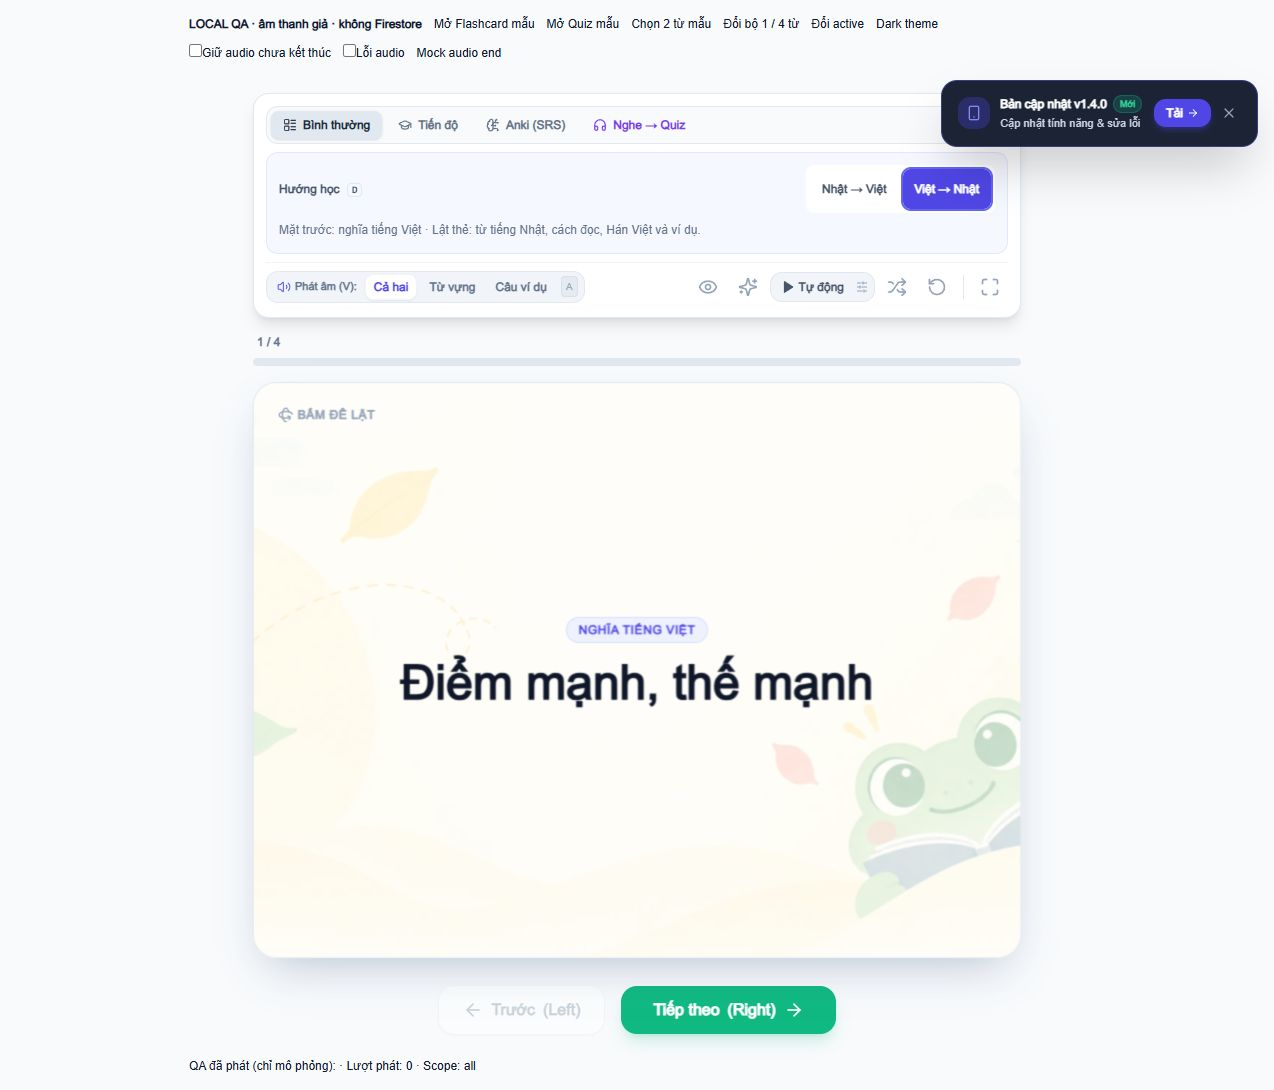
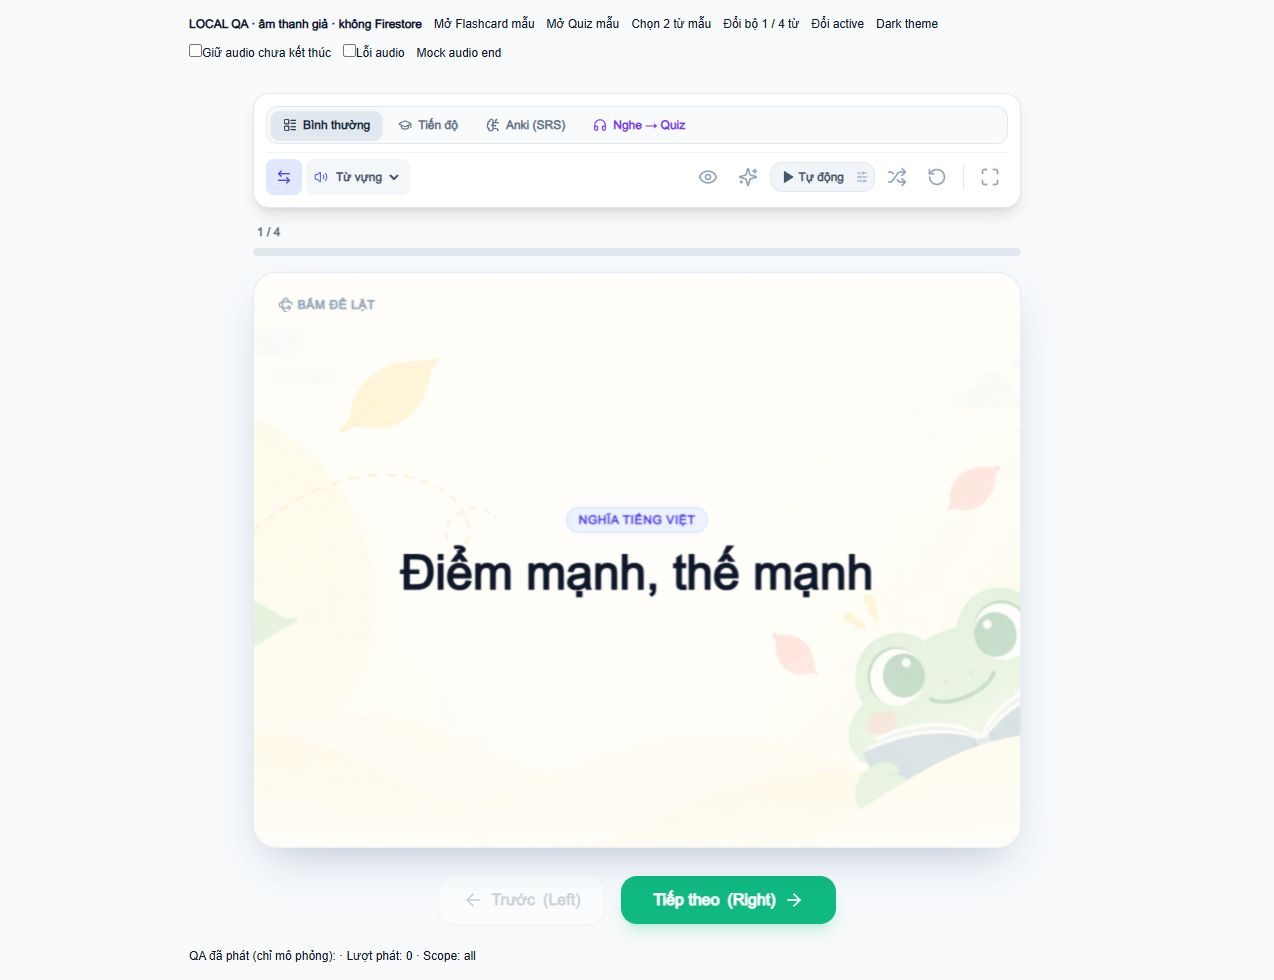
Compact flashcard direction and audio controls into toolbar

diff --git a/src/components/FlashcardView.tsx b/src/components/FlashcardView.tsx
@@ -1247,69 +1247,26 @@ export function FlashcardView({
           ><Headphones className="h-3.5 w-3.5" />Nghe → Quiz</button>}
         </div>
 
-        <div className="space-y-2 rounded-xl border border-indigo-100 bg-indigo-50/50 p-3 dark:border-indigo-900/60 dark:bg-indigo-950/30">
-          <div className="flex flex-wrap items-center justify-between gap-2">
-            <span className="text-xs font-bold text-slate-600 dark:text-slate-300">Hướng học <kbd className="ml-1 rounded border border-slate-200 px-1 text-[10px] dark:border-slate-600">D</kbd></span>
-            <div role="group" aria-label="Hướng học Flashcard" className="flex flex-wrap gap-1 rounded-lg bg-white p-1 dark:bg-slate-900">
-              {([['ja_vi', 'Nhật → Việt'], ['vi_ja', 'Việt → Nhật']] as const).map(([value, label]) => (
-                <button key={value} type="button" aria-pressed={cardDirection === value}
-                  onClick={() => changeCardDirection(value)}
-                  className={`min-h-10 rounded-lg px-3 py-2 text-xs font-bold transition-colors focus-visible:outline focus-visible:outline-2 focus-visible:outline-indigo-500 ${cardDirection === value ? 'bg-indigo-600 text-white shadow-sm' : 'text-slate-600 hover:bg-slate-100 dark:text-slate-300 dark:hover:bg-slate-800'}`}>
-                  {label}
-                </button>
-              ))}
-            </div>
-          </div>
-          <p className="text-xs leading-relaxed text-slate-500 dark:text-slate-400" aria-live="polite">
-            {cardDirection === 'ja_vi' ? 'Mặt trước: từ tiếng Nhật · Lật thẻ: cách đọc, nghĩa và ví dụ.' : 'Mặt trước: nghĩa tiếng Việt · Lật thẻ: từ tiếng Nhật, cách đọc, Hán Việt và ví dụ.'}
-          </p>
-        </div>
-
-        {/* Action & Audio mode buttons */}
-        <div className="flex flex-wrap items-center justify-between gap-2 pt-1.5 border-t border-slate-100 dark:border-slate-800/80">
-          {/* Bộ chuyển đổi chế độ phát âm (Audio Mode Switch) */}
-          <div className="flex items-center gap-1 bg-slate-100 dark:bg-slate-800/80 p-0.5 rounded-xl border border-slate-200 dark:border-slate-700/60">
-            <span className="pl-2 pr-1 text-[11px] text-slate-500 dark:text-slate-400 flex items-center gap-1 font-semibold select-none">
-              <Volume2 className="w-3.5 h-3.5 text-indigo-500 shrink-0" />
-              <span className="hidden sm:inline">Phát âm (V):</span>
-            </span>
-            <button
-              onClick={() => handleAudioModeChange("both")}
-              className={`px-2 py-1 rounded-lg text-xs font-bold transition-all ${
-                audioMode === "both"
-                  ? "bg-white dark:bg-slate-700 text-indigo-600 dark:text-indigo-400 shadow-sm border border-slate-200/50 dark:border-slate-600/50"
-                  : "text-slate-500 dark:text-slate-400 hover:text-slate-900 dark:hover:text-slate-200"
-              }`}
-              title="Đọc cả Từ vựng và Câu ví dụ khi bấm V — Phím [A] để chuyển chế độ"
-            >
-              <span className="hidden xs:inline sm:inline">Cả hai</span>
-              <span className="xs:hidden sm:hidden">Cả 2</span>
+        {/* Compact toolbar: direction switch, audio target, study actions. */}
+        <div className="flex flex-wrap items-center justify-between gap-1.5 border-t border-slate-100 pt-1.5 dark:border-slate-800/80">
+          <div className="flex items-center gap-1">
+            <button type="button" onClick={toggleCardDirection}
+              aria-label={`Đổi hướng học: ${cardDirection === 'ja_vi' ? 'Nhật → Việt' : 'Việt → Nhật'} (D)`}
+              aria-pressed={cardDirection === 'vi_ja'}
+              title={`${cardDirection === 'ja_vi' ? 'Nhật → Việt' : 'Việt → Nhật'} · Bấm để đảo hướng (D)`}
+              className={`flex h-9 w-9 shrink-0 items-center justify-center rounded-lg transition-colors focus-visible:outline focus-visible:outline-2 focus-visible:outline-indigo-500 ${cardDirection === 'vi_ja' ? 'bg-indigo-100 text-indigo-600 dark:bg-indigo-500/20 dark:text-indigo-300' : 'text-slate-500 hover:bg-slate-100 dark:text-slate-400 dark:hover:bg-slate-800'}`}>
+              <ArrowLeftRight className="h-4 w-4" />
             </button>
-            <button
-              onClick={() => handleAudioModeChange("word")}
-              className={`px-2 py-1 rounded-lg text-xs font-bold transition-all ${
-                audioMode === "word"
-                  ? "bg-white dark:bg-slate-700 text-indigo-600 dark:text-indigo-400 shadow-sm border border-slate-200/50 dark:border-slate-600/50"
-                  : "text-slate-500 dark:text-slate-400 hover:text-slate-900 dark:hover:text-slate-200"
-              }`}
-              title="Chỉ đọc Từ vựng khi bấm V — Phím [A] để chuyển chế độ"
-            >
-              <span className="hidden xs:inline sm:inline">Từ vựng</span>
-              <span className="xs:hidden sm:hidden">Từ</span>
-            </button>
-            <button
-              onClick={() => handleAudioModeChange("example")}
-              className={`px-2 py-1 rounded-lg text-xs font-bold transition-all ${
-                audioMode === "example"
-                  ? "bg-white dark:bg-slate-700 text-indigo-600 dark:text-indigo-400 shadow-sm border border-slate-200/50 dark:border-slate-600/50"
-                  : "text-slate-500 dark:text-slate-400 hover:text-slate-900 dark:hover:text-slate-200"
-              }`}
-              title="Chỉ đọc Câu ví dụ khi bấm V — Phím [A] để chuyển chế độ"
-            >
-              <span className="hidden xs:inline sm:inline">Câu ví dụ</span>
-              <span className="xs:hidden sm:hidden">Câu</span>
-            </button>
-            <kbd className="hidden sm:inline-flex ml-0.5 mr-1 text-[10px] text-slate-400 dark:text-slate-500 bg-slate-200/70 dark:bg-slate-700/60 border border-slate-300/50 dark:border-slate-600/50 px-1 py-0.5 rounded font-sans">A</kbd>
+            <label className="flex h-9 items-center gap-1 rounded-lg bg-slate-100/80 px-2 dark:bg-slate-800/80" title="Nội dung phát âm khi bấm V · Phím A để chuyển">
+              <Volume2 className="h-3.5 w-3.5 shrink-0 text-indigo-500" />
+              <span className="sr-only">Nội dung phát âm</span>
+              <select value={audioMode} onChange={(event) => handleAudioModeChange(event.target.value as 'both' | 'word' | 'example')}
+                className="max-w-24 cursor-pointer bg-transparent py-1 text-xs font-semibold text-slate-600 outline-none focus-visible:ring-2 focus-visible:ring-indigo-500 dark:text-slate-300 dark:[color-scheme:dark]">
+                <option value="both">Từ & câu</option>
+                <option value="word">Từ vựng</option>
+                <option value="example">Ví dụ</option>
+              </select>
+            </label>
           </div>
 
           {/* Action buttons (Bên phải) */}

diff --git a/docs/flashcard-direction.md b/docs/flashcard-direction.md
@@ -1,6 +1,6 @@
 # Đổi hướng Flashcard
 
-Vị trí: Flashcard → hàng Hướng học ngay dưới Bình thường / Tiến độ / Anki và trên hàng Phát âm.
+Vị trí: Flashcard → icon ⇄ đầu hàng công cụ, ngay bên trái bộ chọn nội dung âm thanh. Bỏ hàng Hướng học riêng để tiết kiệm diện tích. Tooltip ghi hướng hiện tại; nền tím nhạt là Việt → Nhật. Menu loa chọn Từ vựng / Ví dụ / Từ & câu, vẫn dùng A để chuyển và V để phát.
 
 - Nhật → Việt: xem từ Nhật trước, lật để xem cách đọc, nghĩa, Hán Việt và ví dụ.
 - Việt → Nhật: xem nghĩa Việt trước (không hiện mẹo cách đọc); lật để xem từ Nhật, cách đọc, Hán Việt, nghĩa và ví dụ.
